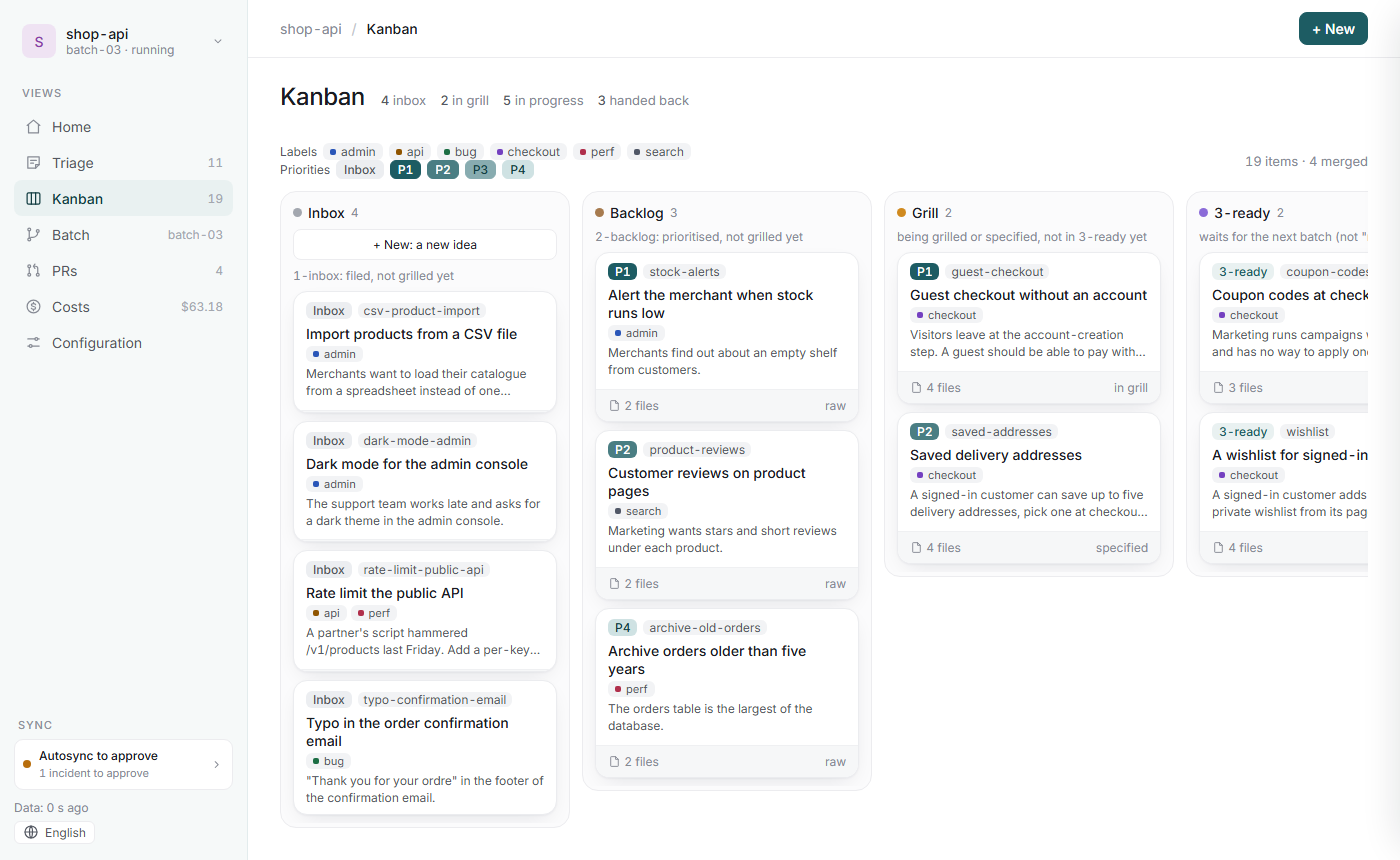
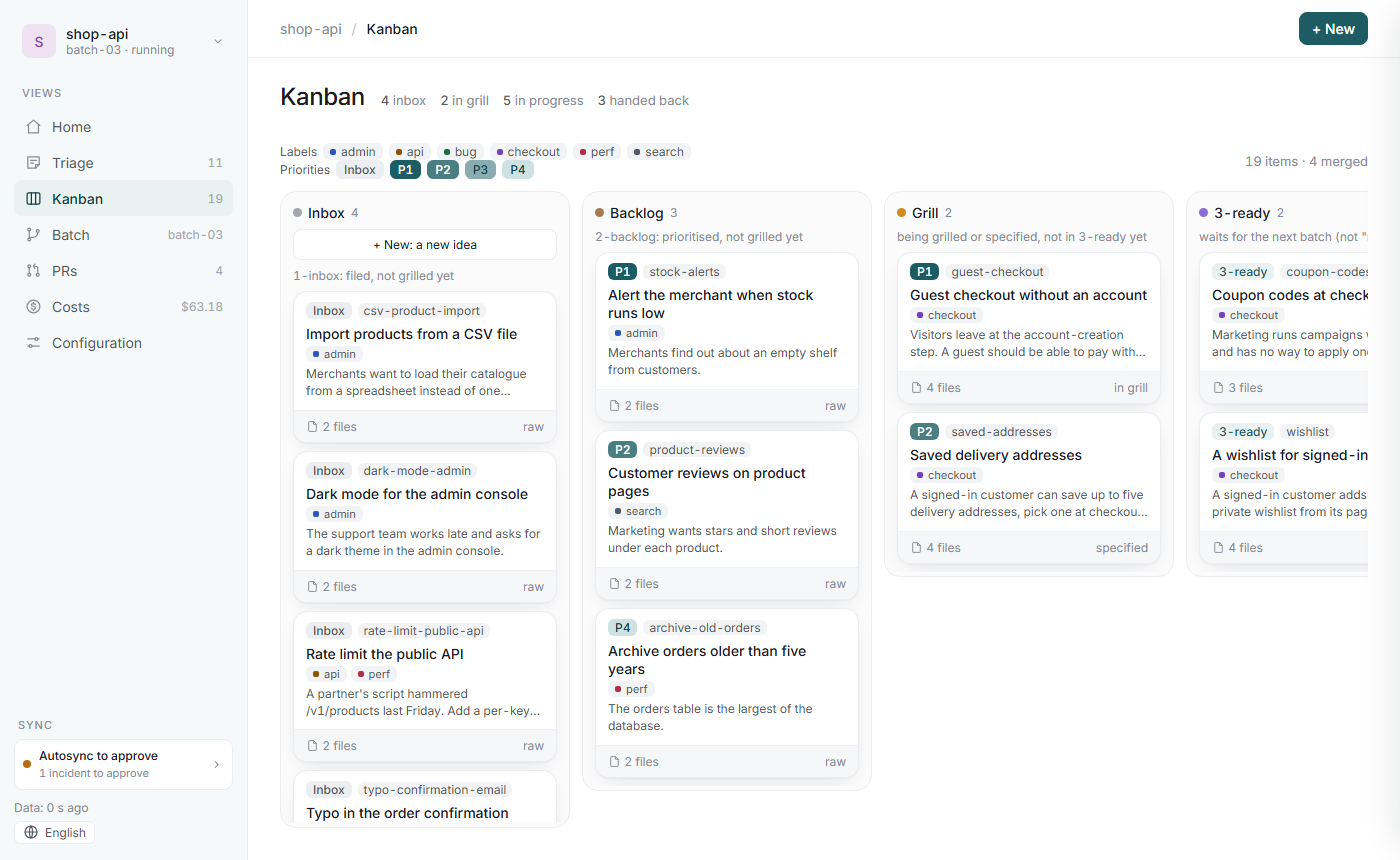
fix(board): keep Kanban cards at full height and the Costs receipt's header box

diff --git a/skills/chantier/scripts/cli/src/chantier/board/web/css/views/costs.css b/skills/chantier/scripts/cli/src/chantier/board/web/css/views/costs.css
@@ -15,6 +15,19 @@
   min-width: 0;
 }
 
+/* The receipt's head meta (mode, dates) on the page: a grey band, as the page has always drawn it.
+   Not in costs-receipt.css, so "Copy as image", which reads that sheet, keeps it plain as before. */
+.costs .ticket .meta {
+  display: flex;
+  flex-wrap: wrap;
+  gap: var(--space-1) var(--space-2);
+  align-items: center;
+  margin: var(--space-off-10) calc(-1 * var(--space-3)) calc(-1 * var(--space-off-10));
+  padding: var(--space-2) var(--space-3);
+  border-top: 1px solid var(--band-line);
+  background: var(--band);
+}
+
 .costs .age {
   display: flex;
   flex-wrap: wrap;

diff --git a/skills/chantier/scripts/cli/src/chantier/board/web/css/components/column.css b/skills/chantier/scripts/cli/src/chantier/board/web/css/components/column.css
@@ -94,6 +94,11 @@
   overflow-y: auto;
 }
 
+/* the body scrolls; its cards keep their full height rather than shrink to fit it */
+.column-body > * {
+  flex: none;
+}
+
 /* a lane: capped cards side by side, as many per row as the lane holds */
 .column-grid {
   display: grid;
